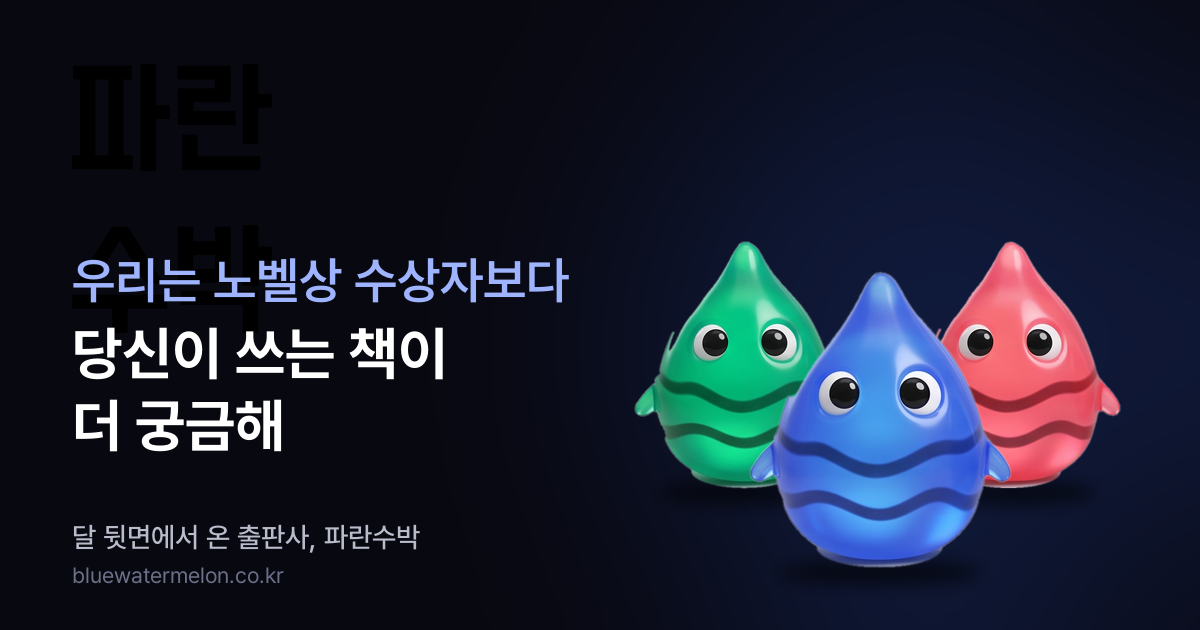
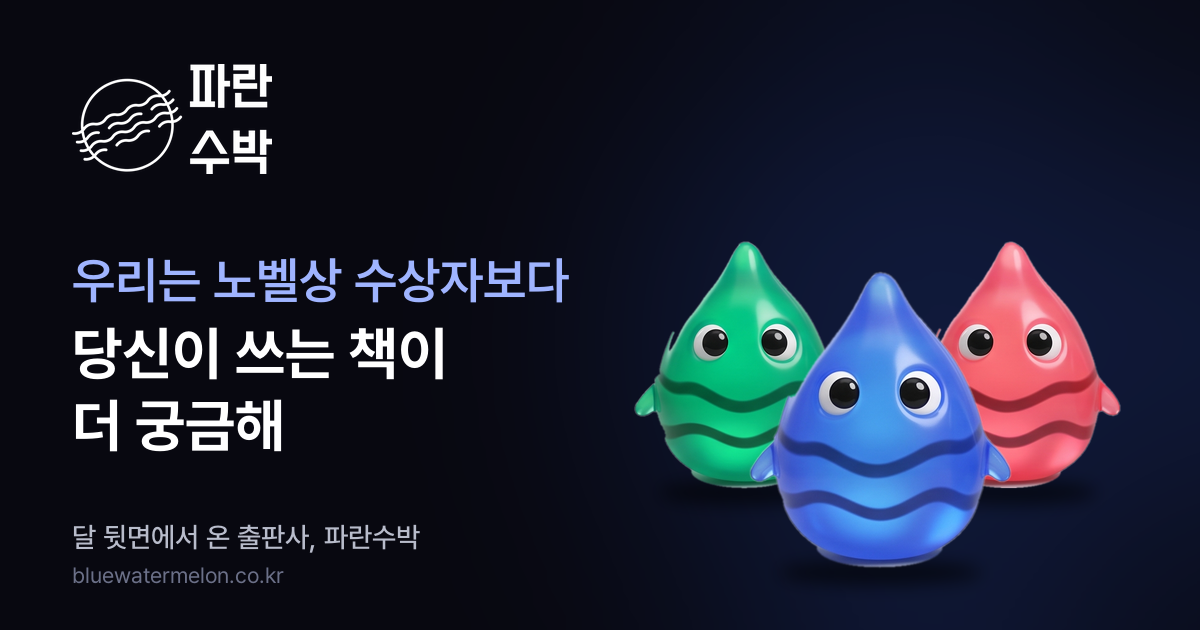
책장 쪽 추가: 첫 책 베테랑 비욘드 + 메뉴·하단·사이트맵 연결, 공유 그림 로고 수정

Changed region(s): [[0.0617, 0.0905, 0.2467, 0.2714]]

diff --git a/books.html b/books.html
@@ -1,0 +1,192 @@
+<!DOCTYPE html>
+<html lang="ko">
+<head>
+<meta charset="UTF-8">
+<meta name="viewport" content="width=device-width, initial-scale=1.0">
+<title>책장 — 파란수박</title>
+<meta name="description" content="파란수박이 만든 책. 첫 번째 책 《베테랑 비욘드 — 세계 군인 창업 백과》, 정동훈 지음.">
+<link rel="canonical" href="https://bluewatermelon.co.kr/books.html">
+<meta name="theme-color" content="#080810">
+<meta property="og:type" content="website">
+<meta property="og:site_name" content="파란수박">
+<meta property="og:locale" content="ko_KR">
+<meta property="og:title" content="책장 — 파란수박">
+<meta property="og:description" content="파란수박이 만든 책. 첫 번째 책 《베테랑 비욘드 — 세계 군인 창업 백과》, 정동훈 지음.">
+<meta property="og:url" content="https://bluewatermelon.co.kr/books.html">
+<meta property="og:image" content="https://bluewatermelon.co.kr/og/og-books.png">
+<meta property="og:image:width" content="1200">
+<meta property="og:image:height" content="630">
+<meta property="og:image:alt" content="파란수박 책장 — 첫 번째 책 베테랑 비욘드">
+<meta name="twitter:card" content="summary_large_image">
+<meta name="twitter:title" content="책장 — 파란수박">
+<meta name="twitter:description" content="파란수박이 만든 책. 첫 번째 책 《베테랑 비욘드 — 세계 군인 창업 백과》, 정동훈 지음.">
+<meta name="twitter:image" content="https://bluewatermelon.co.kr/og/og-books.png">
+<script type="application/ld+json">{"@context": "https://schema.org", "@type": "Book", "name": "베테랑 비욘드 — 세계 군인 창업 백과", "alternateName": "Veteran Beyond", "author": {"@type": "Person", "name": "정동훈"}, "publisher": {"@type": "Organization", "name": "파란수박", "url": "https://bluewatermelon.co.kr/"}, "inLanguage": "ko", "image": "https://bluewatermelon.co.kr/books/veteran-beyond-960.jpg", "url": "https://bluewatermelon.co.kr/books.html", "offers": {"@type": "Offer", "price": "15900", "priceCurrency": "KRW", "url": "https://product.kyobobook.co.kr/detail/S000220695815"}}</script>
+<link rel="icon" type="image/png" href="logos/1.png">
+<link rel="apple-touch-icon" href="logos/1.png">
+<link rel="preconnect" href="https://fonts.googleapis.com">
+<link href="https://fonts.googleapis.com/css2?family=Noto+Serif+KR:wght@300;400;600&family=Space+Grotesk:wght@300;400;500&display=swap" rel="stylesheet">
+<link rel="stylesheet" href="style.css">
+<style>
+.page-hero { padding: 148px 64px 56px; max-width: 1280px; margin: 0 auto; }
+.shelf { max-width: 1280px; margin: 0 auto; padding: 0 64px 120px; }
+.book {
+  display: grid; grid-template-columns: minmax(240px, 380px) 1fr;
+  gap: 80px; padding: 72px 0; border-top: 1px solid #16162A; align-items: start;
+}
+.book-cover { position: sticky; top: 120px; }
+.book-cover img {
+  display: block; width: 100%; height: auto;
+  box-shadow: 0 30px 60px rgba(0,0,0,0.55), 0 0 0 1px rgba(255,255,255,0.06);
+}
+.book-code {
+  font-family: var(--sans); font-size: 15px; font-weight: 500;
+  letter-spacing: 0.18em; color: #2B3EE8; margin-bottom: 20px;
+}
+.book-title {
+  font-size: clamp(34px, 5vw, 60px); font-weight: 600; color: #fff;
+  line-height: 1.15; letter-spacing: -0.015em; margin: 0 0 12px;
+}
+.book-sub { font-size: 22px; font-weight: 300; color: #fff; margin: 0 0 8px; }
+.book-meta {
+  font-family: var(--sans); font-size: 16px; color: rgba(255,255,255,0.55);
+  letter-spacing: 0.02em; margin: 0 0 36px;
+}
+.book-blurbs { display: flex; flex-wrap: wrap; gap: 10px; margin-bottom: 40px; }
+.book-blurb {
+  font-size: 16px; color: #fff; padding: 8px 14px;
+  border: 1px solid rgba(252,92,125,0.45); background: rgba(252,92,125,0.07);
+}
+.book-desc p { font-size: 18px; font-weight: 300; line-height: 1.9; color: rgba(255,255,255,0.78); margin: 0 0 18px; }
+.book-quote {
+  margin: 40px 0; padding: 4px 0 4px 24px; border-left: 2px solid #2DBD6E;
+  font-size: 21px; line-height: 1.7; color: #fff;
+}
+.book-quote cite { display: block; margin-top: 10px; font-style: normal; font-size: 15px; color: rgba(255,255,255,0.5); }
+.book-h { font-family: var(--sans); font-size: 16px; letter-spacing: 0.14em; color: rgba(255,255,255,0.6); margin: 48px 0 16px; text-transform: uppercase; }
+.book-toc { list-style: none; padding: 0; margin: 0; }
+.book-toc li { font-size: 18px; color: rgba(255,255,255,0.82); padding: 12px 0; border-bottom: 1px solid #16162A; }
+.book-buy {
+  display: inline-flex; align-items: center; gap: 12px; margin-top: 48px;
+  padding: 18px 30px; background: #2B3EE8; color: #fff; text-decoration: none;
+  font-size: 18px; font-weight: 600; transition: background .2s;
+}
+.book-buy:hover { background: #4152ff; }
+.book-price { display: inline-block; margin: 48px 0 0 20px; font-family: var(--sans); font-size: 18px; color: rgba(255,255,255,0.75); }
+.next-book {
+  display: grid; grid-template-columns: minmax(240px, 380px) 1fr; gap: 80px;
+  padding: 72px 0; border-top: 1px solid #16162A; align-items: center;
+}
+.next-slot {
+  aspect-ratio: 1748 / 2480; border: 1px dashed rgba(255,255,255,0.22);
+  display: flex; align-items: center; justify-content: center;
+  font-family: var(--sans); font-size: 64px; color: rgba(255,255,255,0.18);
+}
+.next-title { font-size: clamp(28px, 4vw, 48px); font-weight: 300; color: #fff; margin: 0 0 20px; line-height: 1.25; }
+.next-desc { font-size: 18px; font-weight: 300; line-height: 1.9; color: rgba(255,255,255,0.7); margin: 0 0 32px; }
+.next-link { color: #fff; font-size: 18px; text-decoration: none; border-bottom: 1px solid #FC5C7D; padding-bottom: 4px; }
+@media(max-width:900px){
+  .book, .next-book { grid-template-columns: 1fr; gap: 40px; }
+  .book-cover { position: static; max-width: 340px; }
+  .next-slot { max-width: 340px; }
+}
+@media(max-width:768px){
+  .page-hero { padding: 120px 28px 40px; }
+  .shelf { padding: 0 28px 80px; }
+  .book, .next-book { padding: 48px 0; }
+  .book-price { display: block; margin: 20px 0 0; }
+}
+</style>
+</head>
+<body>
+<nav class="site-nav" id="site-nav">
+  <a href="index.html" class="nav-logo"><img src="logos/11.png" alt="파란수박"></a>
+  <ul class="nav-links">
+    <li><a href="report.html" data-ko="보고서" data-en="REPORT">보고서</a></li>
+    <li><a href="books.html" class="active" data-ko="책장" data-en="BOOKS">책장</a></li>
+    <li><a href="lab.html" data-ko="실험실" data-en="LAB">실험실</a></li>
+    <li><a href="hq.html" data-ko="파란수박본부" data-en="B.W.H.Q">파란수박본부</a></li>
+    <li><a href="contact.html" data-ko="안녕하세요?" data-en="HELLO?">안녕하세요?</a></li>
+  </ul>
+  <div class="nav-lang" id="nav-lang" onclick="toggleLang()">EN</div>
+</nav>
+
+<div class="page-hero">
+  <span class="section-label reveal" data-ko="책장" data-en="BOOKS">책장</span>
+  <h1 class="section-title reveal" data-ko="파란수박이 만든 책" data-en="Books from Blue Watermelon">파란수박이 만든 책</h1>
+  <div class="section-divider"></div>
+</div>
+
+<div class="shelf">
+  <article class="book reveal">
+    <div class="book-cover">
+      <img src="books/veteran-beyond-480.jpg" srcset="books/veteran-beyond-480.jpg 480w, books/veteran-beyond-960.jpg 960w" sizes="(max-width: 900px) 340px, 380px" width="480" height="681" alt="베테랑 비욘드 — 세계 군인 창업 백과 표지">
+    </div>
+    <div class="book-info">
+      <div class="book-code" data-ko="BOOK 001 · 첫 번째 책" data-en="BOOK 001 · OUR FIRST BOOK">BOOK 001 · 첫 번째 책</div>
+      <h2 class="book-title">베테랑 비욘드</h2>
+      <p class="book-sub" data-ko="세계 군인 창업 백과" data-en="An Encyclopedia of Military Entrepreneurship Worldwide">세계 군인 창업 백과</p>
+      <p class="book-meta" data-ko="정동훈 지음 · 파란수박" data-en="by Donghoon Jung · Blue Watermelon">정동훈 지음 · 파란수박</p>
+
+      <div class="book-blurbs">
+        <span class="book-blurb" data-ko="대한민국 1세대 군인 창업 연구자 독보적 분석!" data-en="A singular analysis by Korea's first-generation military entrepreneurship researcher">대한민국 1세대 군인 창업 연구자 독보적 분석!</span>
+        <span class="book-blurb" data-ko="글로벌 10개국 25개 기업으로 꿰뚫는 군인 창업 집중 탐구!" data-en="25 companies in 10 countries">글로벌 10개국 25개 기업으로 꿰뚫는 군인 창업 집중 탐구!</span>
+        <span class="book-blurb" data-ko="공군항공과학고등학교 총동창회장 추천!" data-en="Recommended by the Korea Air Force Aeronautical Science High School Alumni Association">공군항공과학고등학교 총동창회장 추천!</span>
+      </div>
+
+      <div class="book-desc">
+        <p data-ko="군대는 창업과 가장 거리가 먼 조직처럼 보인다. 명령과 복종, 위계와 규율, 그리고 무엇보다 “실패해서는 안 된다”는 압박으로 이루어진 세계." data-en="The military looks like the organization furthest from entrepreneurship: a world of orders and obedience, hierarchy and discipline, and above all the pressure that failure is not an option.">군대는 창업과 가장 거리가 먼 조직처럼 보인다. 명령과 복종, 위계와 규율, 그리고 무엇보다 “실패해서는 안 된다”는 압박으로 이루어진 세계.</p>
+        <p data-ko="그러나 이 책은 정반대를 증명한다. 전장에서 발견한 문제, 군에서 단련된 역량, 생사를 함께한 전우 네트워크가 어떻게 세상을 바꾸는 창업으로 이어졌는가." data-en="This book proves the opposite: how problems found on the battlefield, capabilities forged in service, and networks of comrades became ventures that change the world.">그러나 이 책은 정반대를 증명한다. 전장에서 발견한 문제, 군에서 단련된 역량, 생사를 함께한 전우 네트워크가 어떻게 세상을 바꾸는 창업으로 이어졌는가.</p>
+        <p data-ko="『베테랑 비욘드』는 대한민국 1세대 군인 창업 연구자가 글로벌 10개국 25개 기업을 추적해 완성한 ‘세계 군인 창업 백과’다." data-en="Veteran Beyond is an encyclopedia of military entrepreneurship, built by tracking 25 companies across 10 countries.">『베테랑 비욘드』는 대한민국 1세대 군인 창업 연구자가 글로벌 10개국 25개 기업을 추적해 완성한 ‘세계 군인 창업 백과’다.</p>
+        <p data-ko="창업을 꿈꾸는 이, 군복을 벗고 새 길을 모색하는 예비 창업가, 국방·안보 정책 입안자, 그리고 군인정신의 진짜 쓸모가 궁금한 모든 독자에게 권한다." data-en="For aspiring founders, service members seeking a new path after the uniform, defense and security policymakers, and every reader curious about what the military spirit is really good for.">창업을 꿈꾸는 이, 군복을 벗고 새 길을 모색하는 예비 창업가, 국방·안보 정책 입안자, 그리고 군인정신의 진짜 쓸모가 궁금한 모든 독자에게 권한다.</p>
+      </div>
+
+      <blockquote class="book-quote">
+        <span data-ko="오랫동안 군인은 창업과 무관한 집단으로 여겨져 왔다. 이 책은 그 인식에 대한 이의 제기다." data-en="For a long time, soldiers were seen as a group with nothing to do with entrepreneurship. This book is an objection to that view.">오랫동안 군인은 창업과 무관한 집단으로 여겨져 왔다. 이 책은 그 인식에 대한 이의 제기다.</span>
+        <cite data-ko="— ‘들어서는 말’ 중에서" data-en="— from the Introduction">— ‘들어서는 말’ 중에서</cite>
+      </blockquote>
+
+      <div class="book-h" data-ko="차례" data-en="Contents">차례</div>
+      <ul class="book-toc">
+        <li>Part 1. 프롤로그: 전장(戰場)에서 시장(市場)으로</li>
+        <li>Part 2. 기술 최전선으로 진격하는 베테랑들</li>
+        <li>Part 3. 향토창업군(鄕土創業軍): 내 고향을 위한 스타트업 전술</li>
+        <li>Part 4. 멈추지 않는 미션: 사회적 문제를 해결하는 영웅들</li>
+        <li>Part 5. 밀리터리 스탠다드: 일상에 침투한 강력한 표준</li>
+        <li>Part 6. 에필로그: 창업군(創業軍)</li>
+      </ul>
+
+      <a class="book-buy" href="https://product.kyobobook.co.kr/detail/S000220695815" target="_blank" rel="noopener"><span data-ko="교보문고에서 보기" data-en="View at Kyobo Book Centre">교보문고에서 보기</span> →</a>
+      <span class="book-price">15,900원</span>
+    </div>
+  </article>
+
+  <section class="next-book reveal">
+    <div class="next-slot">002</div>
+    <div>
+      <div class="book-code" data-ko="BOOK 002 · 비어 있는 칸" data-en="BOOK 002 · AN EMPTY SLOT">BOOK 002 · 비어 있는 칸</div>
+      <h2 class="next-title" data-ko="다음 칸은 당신의 책입니다" data-en="The next slot is for your book">다음 칸은 당신의 책입니다</h2>
+      <p class="next-desc" data-ko="모든 지구인은 한 권의 책입니다. 쓰고 싶은 이야기가 있다면 신호를 보내주세요." data-en="Every earthling is a book. If you have a story to write, send us a signal.">모든 지구인은 한 권의 책입니다. 쓰고 싶은 이야기가 있다면 신호를 보내주세요.</p>
+      <a class="next-link" href="contact.html" data-ko="신호 보내기 →" data-en="Send a signal →">신호 보내기 →</a>
+    </div>
+  </section>
+</div>
+
+<footer class="site-footer">
+  <div class="footer-brand-col"><img src="logos/11.png" alt="파란수박" class="footer-logo"><p class="footer-tagline">외계인이 설립한 출판사<br>파란 수박</p></div>
+  <div class="footer-links-col"><div class="footer-col-title">Pages</div><ul class="footer-links"><li><a href="report.html">보고서</a></li><li><a href="books.html">책장</a></li><li><a href="lab.html">실험실</a></li><li><a href="hq.html">파란수박본부</a></li><li><a href="contact.html">안녕하세요?</a></li></ul></div>
+  <div class="footer-contact-col"><div class="footer-col-title">Contact</div><a href="mailto:donghoon807@gmail.com" class="footer-email">donghoon807@gmail.com</a><p class="footer-copy">수신 확인까지 1–3 지구일 소요됩니다.</p></div>
+</footer>
+<div class="footer-bottom"><span class="footer-bottom-text">© 2026 파란수박 — 지구기록보관소</span><span class="footer-bottom-text">본부좌표 — 달 뒷면 / FAR SIDE OF THE MOON</span></div>
+<script>
+const nav = document.getElementById('site-nav');
+window.addEventListener('scroll', () => { nav.classList.toggle('scrolled', window.scrollY > 40); }, { passive: true });
+nav.classList.add('scrolled');
+const reveals = document.querySelectorAll('.reveal');
+const obs = new IntersectionObserver(entries => { entries.forEach(e => { if (e.isIntersecting) { e.target.classList.add('visible'); obs.unobserve(e.target); } }); }, { threshold: 0.06 });
+reveals.forEach(el => obs.observe(el));
+let isKo = true;
+function toggleLang() { isKo = !isKo; document.getElementById('nav-lang').textContent = isKo ? 'EN' : 'KO'; document.querySelectorAll('[data-ko][data-en]').forEach(el => { el.textContent = isKo ? el.dataset.ko : el.dataset.en; }); }
+</script>
+</body>
+</html>

diff --git a/hq.html b/hq.html
@@ -74,6 +74,7 @@
   <a href="index.html" class="nav-logo"><img src="logos/11.png" alt="파란수박"></a>
   <ul class="nav-links">
     <li><a href="report.html" data-ko="보고서" data-en="REPORT">보고서</a></li>
+    <li><a href="books.html" data-ko="책장" data-en="BOOKS">책장</a></li>
     <li><a href="lab.html" data-ko="실험실" data-en="LAB">실험실</a></li>
     <li><a href="hq.html" class="active" data-ko="파란수박본부" data-en="B.W.H.Q">파란수박본부</a></li>
     <li><a href="contact.html" data-ko="안녕하세요?" data-en="HELLO?">안녕하세요?</a></li>
@@ -115,7 +116,7 @@
 
 <footer class="site-footer">
   <div class="footer-brand-col"><img src="logos/11.png" alt="파란수박" class="footer-logo"><p class="footer-tagline">외계인이 설립한 출판사<br>파란 수박</p></div>
-  <div class="footer-links-col"><div class="footer-col-title">Pages</div><ul class="footer-links"><li><a href="report.html">보고서</a></li><li><a href="lab.html">실험실</a></li><li><a href="hq.html">파란수박본부</a></li><li><a href="contact.html">안녕하세요?</a></li></ul></div>
+  <div class="footer-links-col"><div class="footer-col-title">Pages</div><ul class="footer-links"><li><a href="report.html">보고서</a></li><li><a href="books.html">책장</a></li><li><a href="lab.html">실험실</a></li><li><a href="hq.html">파란수박본부</a></li><li><a href="contact.html">안녕하세요?</a></li></ul></div>
   <div class="footer-contact-col"><div class="footer-col-title">Contact</div><a href="mailto:donghoon807@gmail.com" class="footer-email">donghoon807@gmail.com</a><p class="footer-copy">수신 확인까지 1–3 지구일 소요됩니다.</p></div>
 </footer>
 <div class="footer-bottom"><span class="footer-bottom-text">© 2026 파란수박 — 지구기록보관소</span><span class="footer-bottom-text">본부좌표 — 달 뒷면 / FAR SIDE OF THE MOON</span></div>

diff --git a/lab.html b/lab.html
@@ -71,6 +71,7 @@
   <a href="index.html" class="nav-logo"><img src="logos/11.png" alt="파란수박"></a>
   <ul class="nav-links">
     <li><a href="report.html" data-ko="보고서" data-en="REPORT">보고서</a></li>
+    <li><a href="books.html" data-ko="책장" data-en="BOOKS">책장</a></li>
     <li><a href="lab.html" class="active" data-ko="실험실" data-en="LAB">실험실</a></li>
     <li><a href="hq.html" data-ko="파란수박본부" data-en="B.W.H.Q">파란수박본부</a></li>
     <li><a href="contact.html" data-ko="안녕하세요?" data-en="HELLO?">안녕하세요?</a></li>
@@ -120,7 +121,7 @@
 
 <footer class="site-footer">
   <div class="footer-brand-col"><img src="logos/11.png" alt="파란수박" class="footer-logo"><p class="footer-tagline">외계인이 설립한 출판사<br>파란 수박</p></div>
-  <div class="footer-links-col"><div class="footer-col-title">Pages</div><ul class="footer-links"><li><a href="report.html">보고서</a></li><li><a href="lab.html">실험실</a></li><li><a href="hq.html">파란수박본부</a></li><li><a href="contact.html">안녕하세요?</a></li></ul></div>
+  <div class="footer-links-col"><div class="footer-col-title">Pages</div><ul class="footer-links"><li><a href="report.html">보고서</a></li><li><a href="books.html">책장</a></li><li><a href="lab.html">실험실</a></li><li><a href="hq.html">파란수박본부</a></li><li><a href="contact.html">안녕하세요?</a></li></ul></div>
   <div class="footer-contact-col"><div class="footer-col-title">Contact</div><a href="mailto:donghoon807@gmail.com" class="footer-email">donghoon807@gmail.com</a><p class="footer-copy">수신 확인까지 1–3 지구일 소요됩니다.</p></div>
 </footer>
 <div class="footer-bottom"><span class="footer-bottom-text">© 2026 파란수박 — 지구기록보관소</span><span class="footer-bottom-text">본부좌표 — 달 뒷면 / FAR SIDE OF THE MOON</span></div>

diff --git a/contact.html b/contact.html
@@ -48,6 +48,7 @@
   <a href="index.html" class="nav-logo"><img src="logos/11.png" alt="파란수박"></a>
   <ul class="nav-links">
     <li><a href="report.html" data-ko="보고서" data-en="REPORT">보고서</a></li>
+    <li><a href="books.html" data-ko="책장" data-en="BOOKS">책장</a></li>
     <li><a href="lab.html" data-ko="실험실" data-en="LAB">실험실</a></li>
     <li><a href="hq.html" data-ko="파란수박본부" data-en="B.W.H.Q">파란수박본부</a></li>
     <li><a href="contact.html" class="active" data-ko="안녕하세요?" data-en="HELLO?">안녕하세요?</a></li>
@@ -77,7 +78,7 @@
 
 <footer class="site-footer">
   <div class="footer-brand-col"><img src="logos/11.png" alt="파란수박" class="footer-logo"><p class="footer-tagline">외계인이 설립한 출판사<br>파란 수박</p></div>
-  <div class="footer-links-col"><div class="footer-col-title">Pages</div><ul class="footer-links"><li><a href="report.html">보고서</a></li><li><a href="lab.html">실험실</a></li><li><a href="hq.html">파란수박본부</a></li><li><a href="contact.html">안녕하세요?</a></li></ul></div>
+  <div class="footer-links-col"><div class="footer-col-title">Pages</div><ul class="footer-links"><li><a href="report.html">보고서</a></li><li><a href="books.html">책장</a></li><li><a href="lab.html">실험실</a></li><li><a href="hq.html">파란수박본부</a></li><li><a href="contact.html">안녕하세요?</a></li></ul></div>
   <div class="footer-contact-col"><div class="footer-col-title">Contact</div><a href="mailto:donghoon807@gmail.com" class="footer-email">donghoon807@gmail.com</a><p class="footer-copy">수신 확인까지 1–3 지구일 소요됩니다.</p></div>
 </footer>
 <div class="footer-bottom"><span class="footer-bottom-text">© 2026 파란수박 — 지구기록보관소</span><span class="footer-bottom-text">본부좌표 — 달 뒷면 / FAR SIDE OF THE MOON</span></div>

diff --git a/report.html b/report.html
@@ -90,6 +90,7 @@
   </a>
   <ul class="nav-links">
     <li><a href="report.html" class="active" data-ko="보고서" data-en="REPORT">보고서</a></li>
+    <li><a href="books.html" data-ko="책장" data-en="BOOKS">책장</a></li>
     <li><a href="lab.html" data-ko="실험실" data-en="LAB">실험실</a></li>
     <li><a href="hq.html" data-ko="파란수박본부" data-en="B.W.H.Q">파란수박본부</a></li>
     <li><a href="contact.html" data-ko="안녕하세요?" data-en="HELLO?">안녕하세요?</a></li>
@@ -185,7 +186,7 @@
 
 <footer class="site-footer">
   <div class="footer-brand-col"><img src="logos/11.png" alt="파란수박" class="footer-logo"><p class="footer-tagline">외계인이 설립한 출판사<br>파란 수박</p></div>
-  <div class="footer-links-col"><div class="footer-col-title">Pages</div><ul class="footer-links"><li><a href="report.html">보고서</a></li><li><a href="lab.html">실험실</a></li><li><a href="hq.html">파란수박본부</a></li><li><a href="contact.html">안녕하세요?</a></li></ul></div>
+  <div class="footer-links-col"><div class="footer-col-title">Pages</div><ul class="footer-links"><li><a href="report.html">보고서</a></li><li><a href="books.html">책장</a></li><li><a href="lab.html">실험실</a></li><li><a href="hq.html">파란수박본부</a></li><li><a href="contact.html">안녕하세요?</a></li></ul></div>
   <div class="footer-contact-col"><div class="footer-col-title">Contact</div><a href="mailto:donghoon807@gmail.com" class="footer-email">donghoon807@gmail.com</a><p class="footer-copy">수신 확인까지 1–3 지구일 소요됩니다.</p></div>
 </footer>
 <div class="footer-bottom"><span class="footer-bottom-text">© 2026 파란수박 — 지구기록보관소</span><span class="footer-bottom-text">본부좌표 — 달 뒷면 / FAR SIDE OF THE MOON</span></div>

diff --git a/index.html b/index.html
@@ -182,6 +182,7 @@ canvas#stars {
   </a>
   <ul class="nav-links">
     <li><a href="report.html" data-ko="보고서" data-en="REPORT">보고서</a></li>
+    <li><a href="books.html" data-ko="책장" data-en="BOOKS">책장</a></li>
     <li><a href="lab.html" data-ko="실험실" data-en="LAB">실험실</a></li>
     <li><a href="hq.html" data-ko="파란수박본부" data-en="B.W.H.Q">파란수박본부</a></li>
     <li><a href="contact.html" data-ko="안녕하세요?" data-en="HELLO?">안녕하세요?</a></li>
@@ -245,6 +246,7 @@ canvas#stars {
     <div class="footer-col-title">Pages</div>
     <ul class="footer-links">
       <li><a href="report.html">보고서</a></li>
+      <li><a href="books.html">책장</a></li>
       <li><a href="lab.html">실험실</a></li>
       <li><a href="hq.html">파란수박본부</a></li>
       <li><a href="contact.html">안녕하세요?</a></li>
